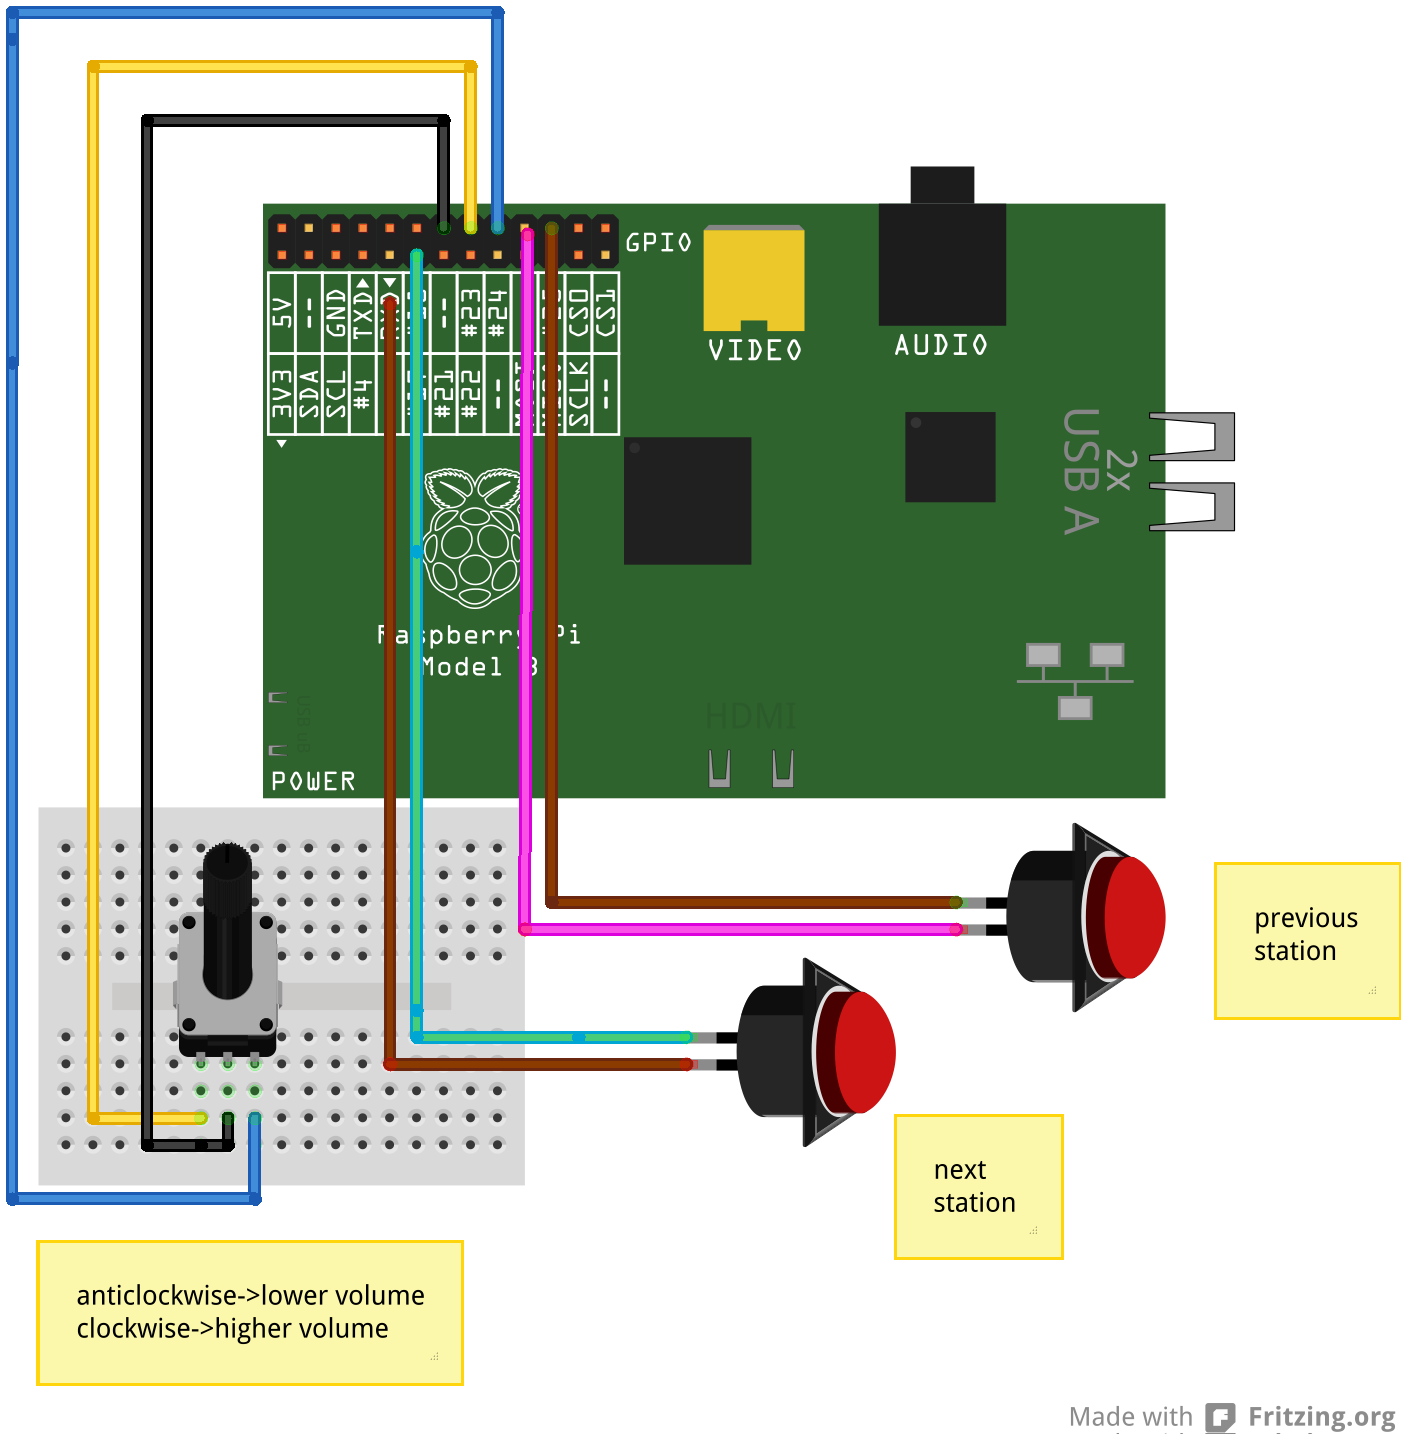
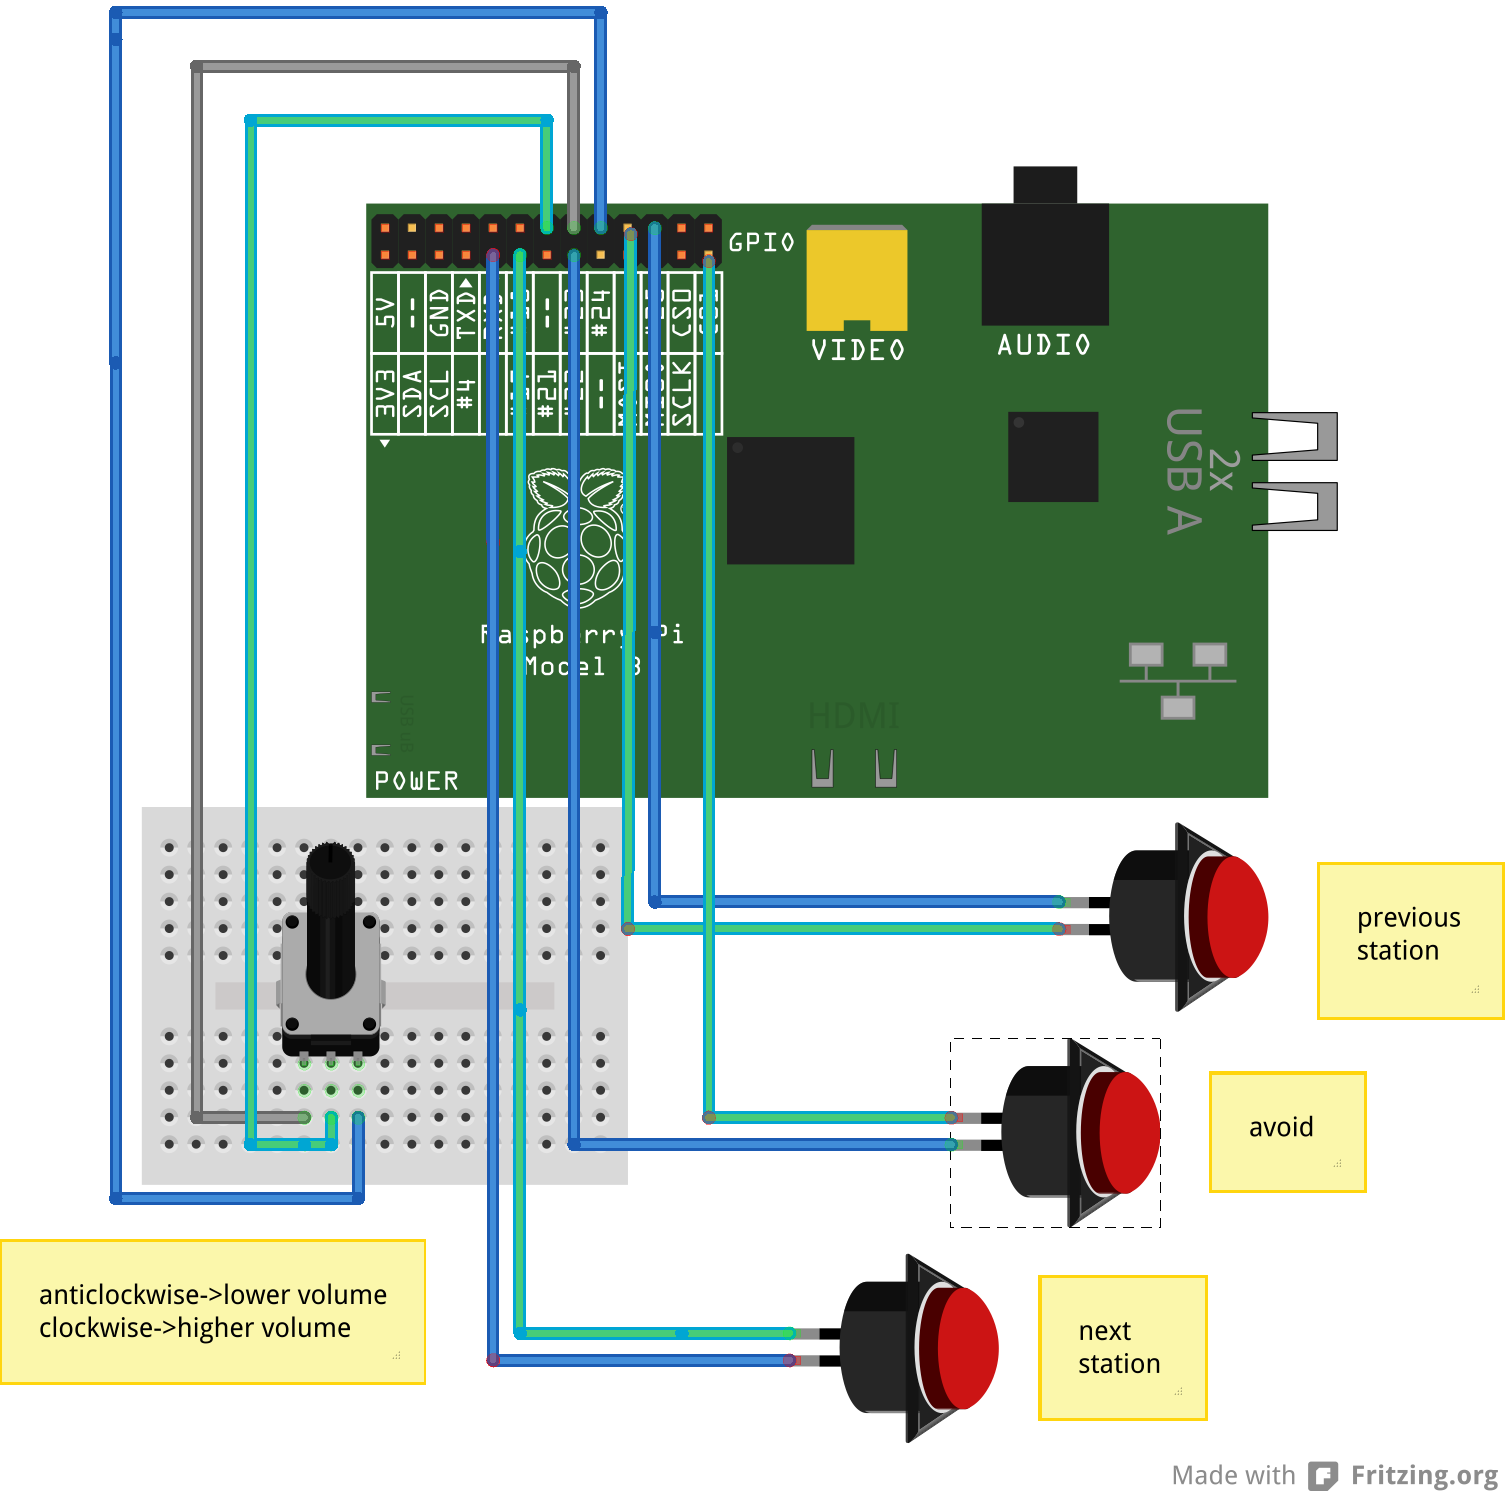
updated docs and diagrams

diff --git a/README.md b/README.md
@@ -1,43 +1,23 @@
 radiodan_example
 ================
 
-Example application using the radiodan gem
+## Candidate radio app
 
-## Getting started
-
-- Download and install [Vagrant](http://downloads.vagrantup.com/)
-- `$ vagrant up`
-- Shell into the virtual machine `$ vagrant ssh`
-- Change to the application directory, mounted as `$ cd /vagrant`
-- Install the dependencies for the app `$ bundle install`
-- Start the radio application `$ bin/start`
-
-The radio should start playing. You can invoke "panic mode" by creating (or touching) a file named `panic` in the `tmp` directory e.g. `$ touch tmp/panic`. You should hear a different radio station play for 5 seconds.
-
-## read_button
-
-read_button uses the GPIO and touches the panic file when you click a button, which should be wired like this: http://www.flickr.com/photos/nicecupoftea/9416544318/
-
-- `git clone https://github.com/libbymiller/WiringPi2-Ruby.git`
-- `cd WiringPi2-Ruby/`
-- `gem build wiringpi.gemspec`
-- `sudo gem install wiringpi2`
-- `cd ../radiodan_example` 
-- `sudo ./bin/read_button`
-
-## Radio app
-
-This is the start of a candidate application for releasing with v1 of radiodan.
+This is the start of a candidate application for releasing with v1 of the radiodan gem.
 
 To run it:
 - ./bin/start_radio
 - sudo ./bin/start_frankenpins 
+- ./bin/start_mqqt
 
-It has two buttons and a rotary encoder.
-The buttons are in pins 0 and 6 - the one in 0 cycles forwards through the stations, 6 goes backwards
+It has three buttons and a rotary encoder.
+
+The channel buttons are in pins 0 and 6 - the one in 0 cycles forwards through the stations, 6 goes backwards
+The avoider button is in pin 3.
+
 The rotary encoder is in pins 4 and 5 and controls volume (it's a bit crashy).
 
-Fritzing diagram: http://www.flickr.com/photos/nicecupoftea/10841462306/
-Picture of the box: http://www.flickr.com/photos/nicecupoftea/10841160834/
+* Fritzing diagram is in [doc/](/doc/)
+* Picture of the box: http://www.flickr.com/photos/nicecupoftea/10841160834/
 
-
+<img src="doc/Radiodan_app.png" alt="Fritzing diagram app" />
